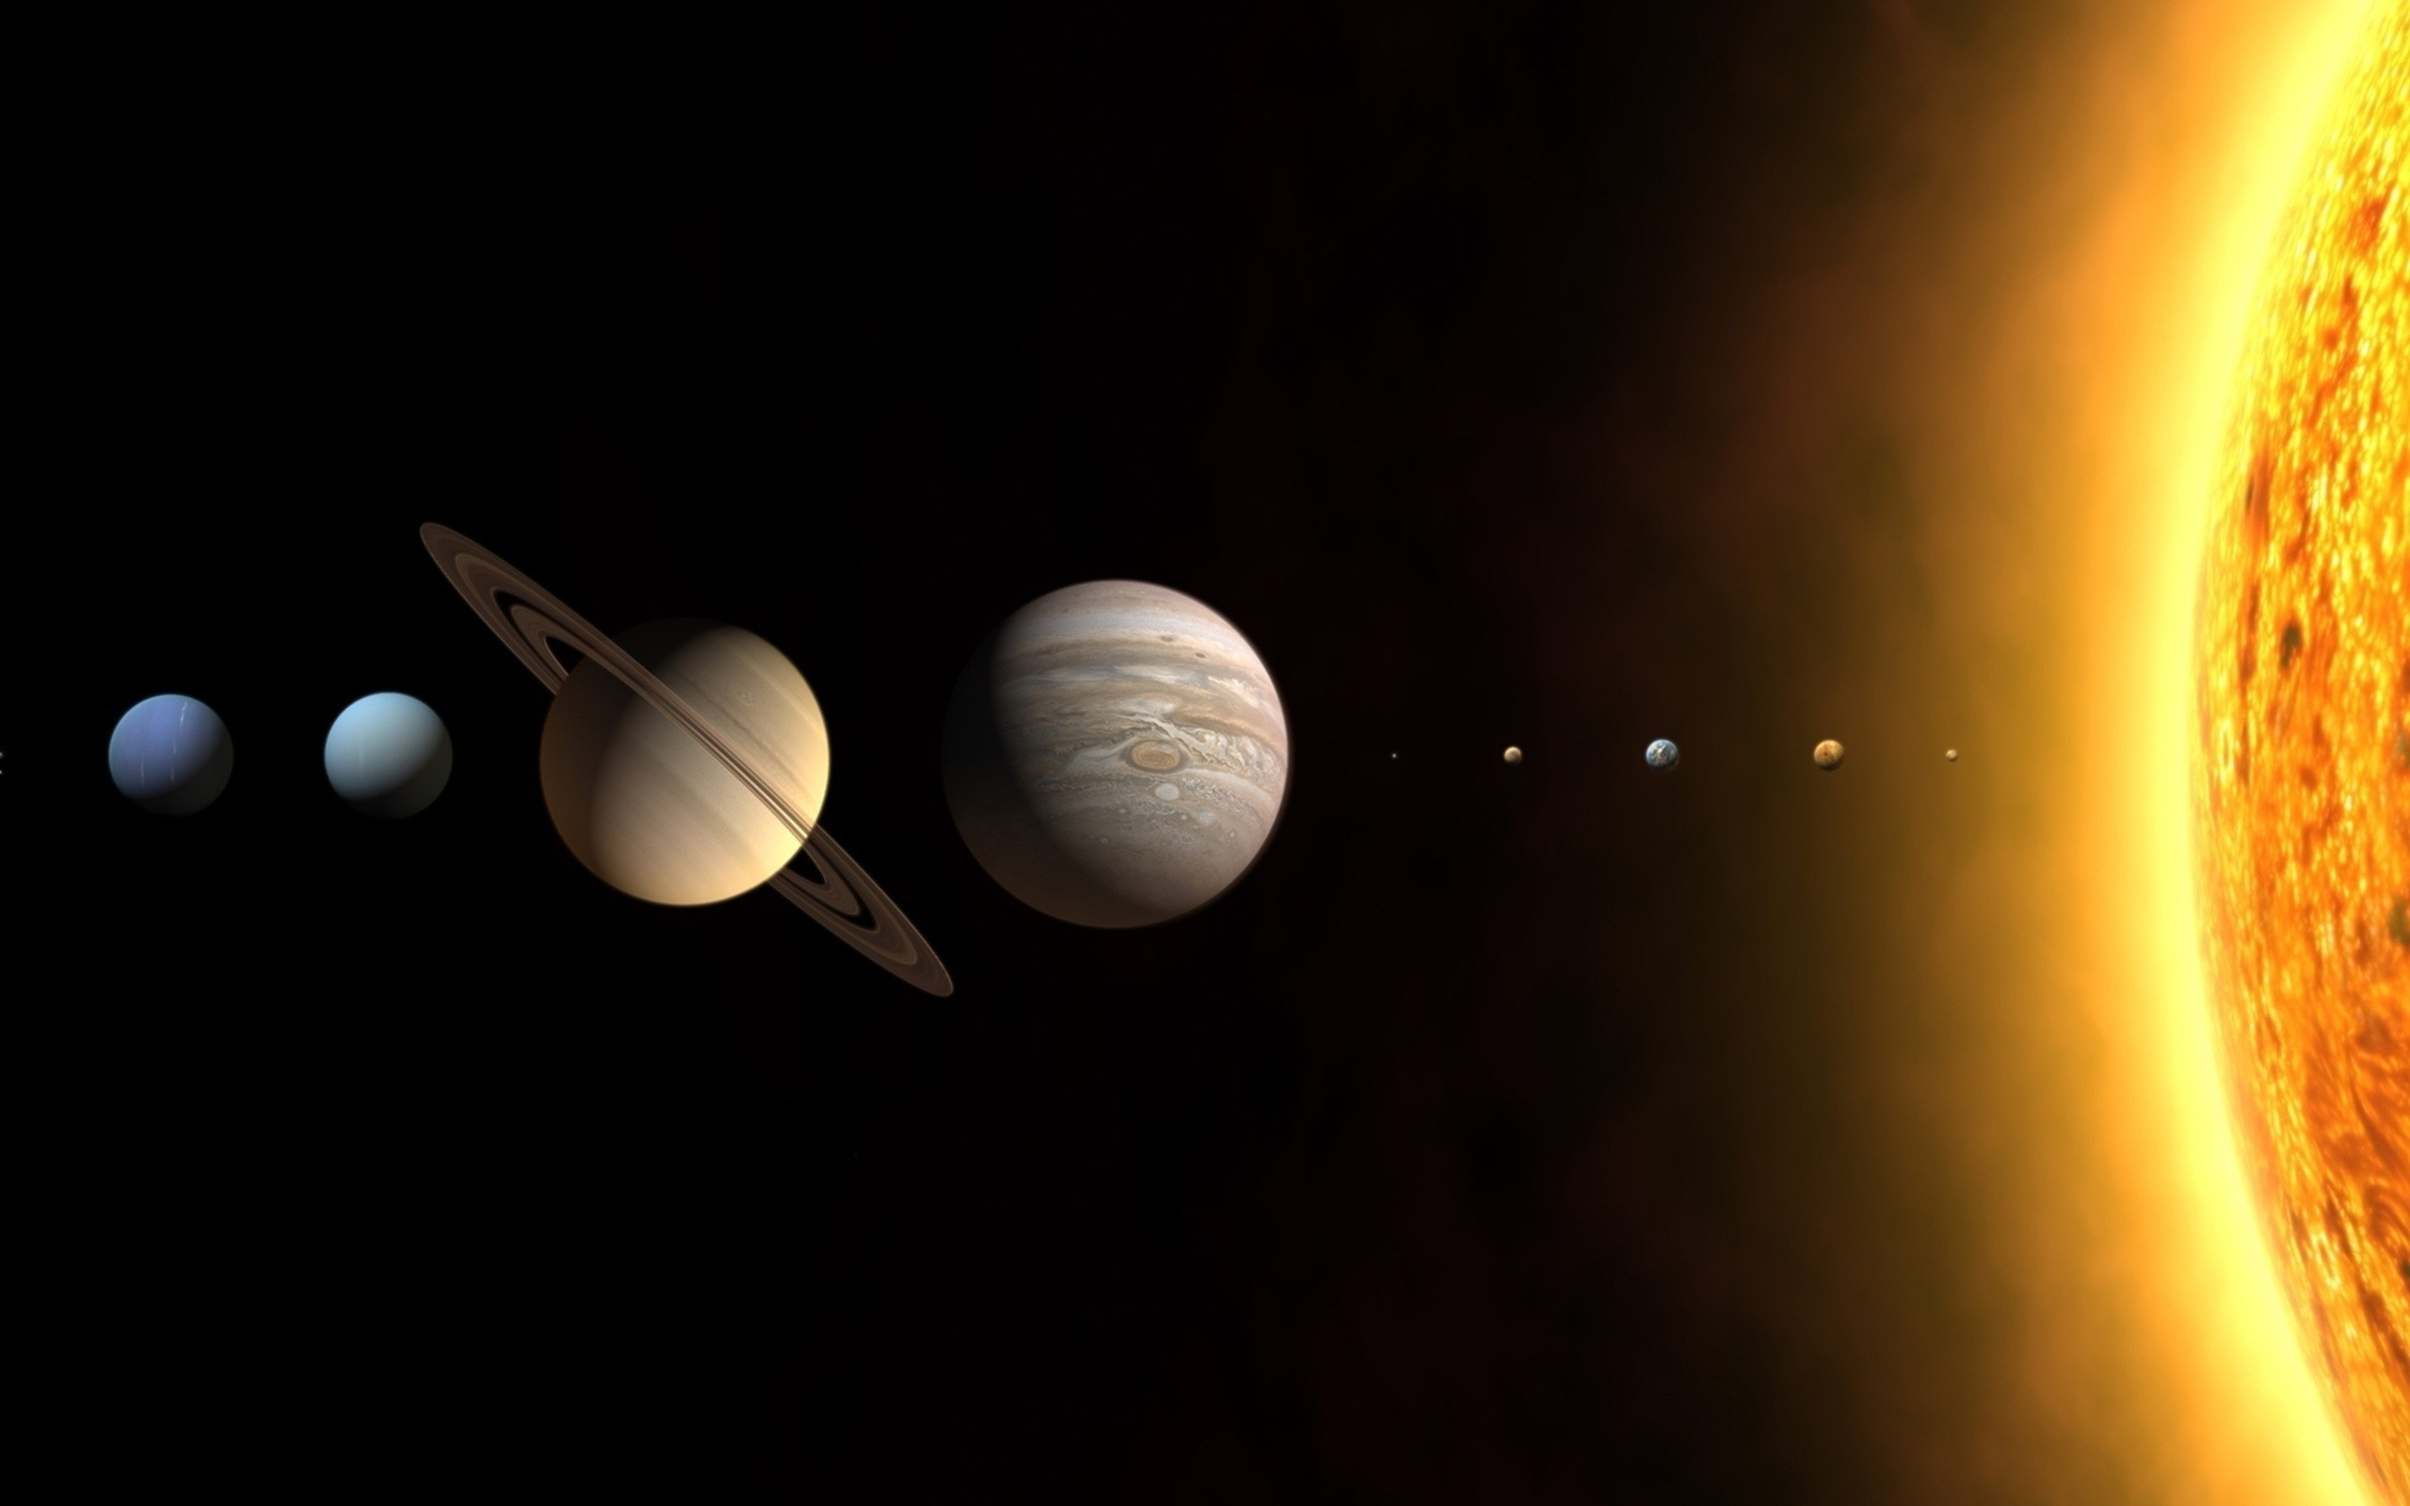
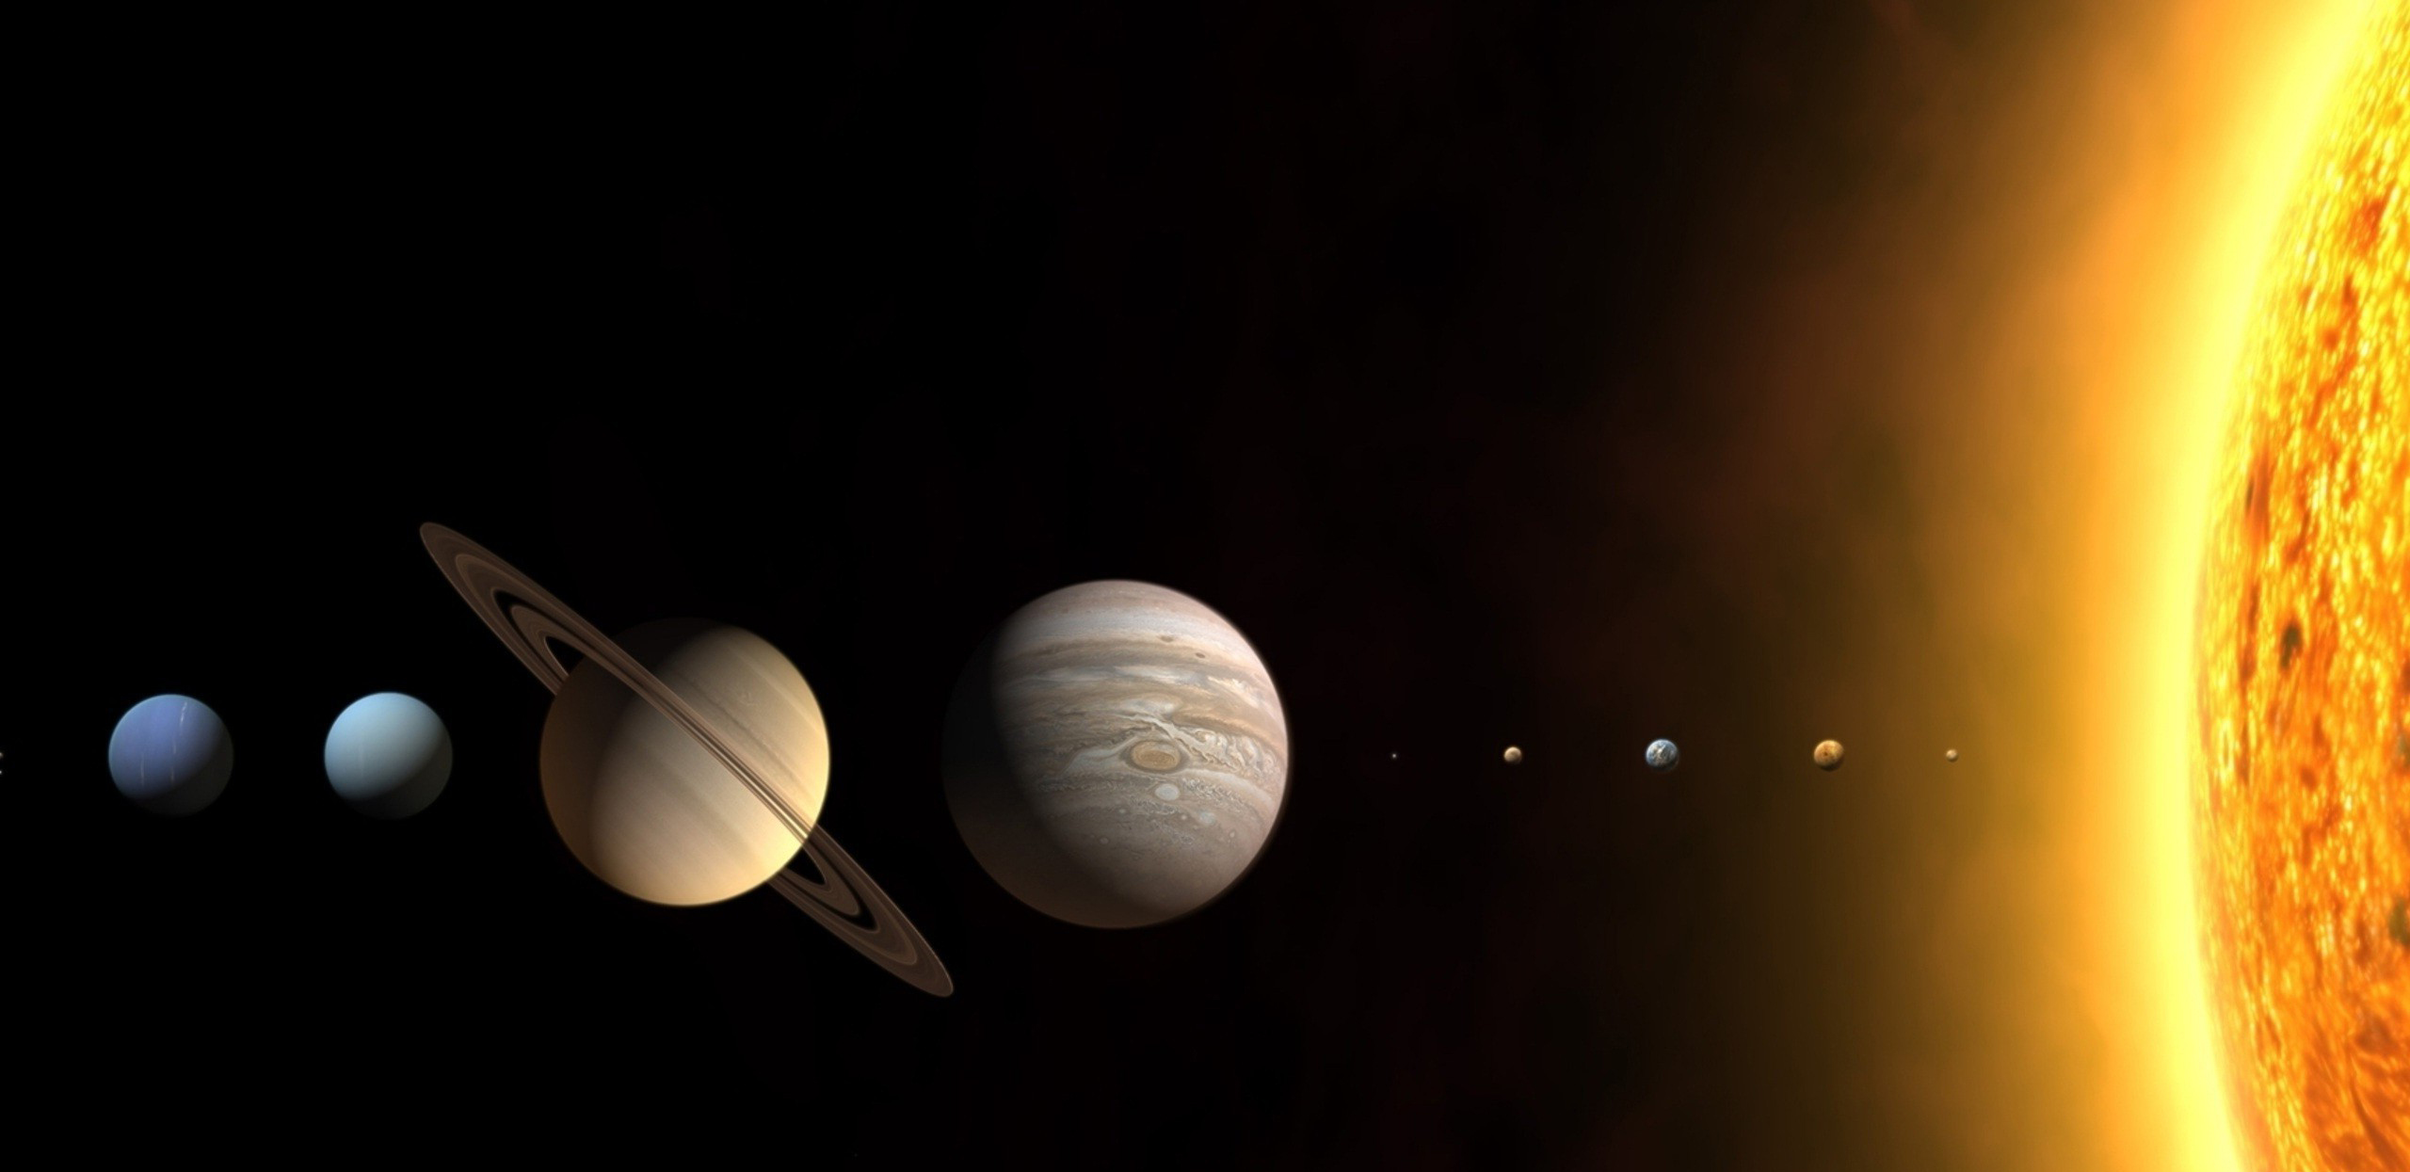
finalized wireframe

diff --git a/Wireframe/index.html b/Wireframe/index.html
@@ -14,6 +14,8 @@
             <p>Journey through the Solar System with this short quiz and learn some cool facts along the way.</p>
         </header>
 
+        <h1>Pre-quiz state</h1>
+
         <form class="quiz-form">
             <section class="quiz-progress">
                 <span class="question-number">Question: Not Started</span>
@@ -40,6 +42,96 @@
                 <input type="button" name="next-question-button" id="next-question-button" class="quiz-buttons" value="Start Quiz">
             </span>
         </form>
+
+        <h1>When asking a question</h1>
+
+        <form class="quiz-form">
+                <section class="quiz-progress">
+                    <span class="question-number">Question: 1/16</span>
+                    <span class="question-grading">Correct: 0 Incorrect: 0</span>
+                </section>
+    
+                <section class="quiz-questions-answers">Who or what was the first thing to orbit the Earth?
+                    </section>
+                <span class="multiple-choice" role="question choices">
+                    <label for="user-answer-a" class="radio-labels">
+                        <input type="radio" name="user-answers" id="user-answer-a" class="user-answer-a">
+                    A monkey</label>
+                    <label for="user-answer-b" class="radio-labels">
+                        <input type="radio" name="user-answers" id="user-answer-b" class="user-answer-b">
+                    A dog</label>
+                    <label for="user-answer-c" class="radio-labels">
+                        <input type="radio" name="user-answers" id="user-answer-c" class="user-answer-c">
+                    Buzz Aldrin</label>
+                    <label for="user-answer-d" class="radio-labels">
+                        <input type="radio" name="user-answers" id="user-answer-d" class="user-answer-d">
+                    John Glenn</label>
+                </span>
+                <span role="quiz control buttons" class="quiz-control-buttons">
+                    <input type="button" name="stop-start-restart-button" id="stop-start-restart-button" class="quiz-buttons" value="Stop/Restart">
+                    <input type="button" name="next-question-button" id="next-question-button" class="quiz-buttons" value="Start Quiz">
+                </span>
+            </form>
+
+        <h1>When the user answers correctly</h1>
+
+        <form class="quiz-form">
+                <section class="quiz-progress">
+                    <span class="question-number">Question: 1/16</span>
+                    <span class="question-grading">Correct: 1 Incorrect: 0</span>
+                </section>
+    
+                <section class="quiz-questions-answers correct-box">The first creature from Earth to orbit the planet was Laika the dog, sent on the Soviet Sputnik 2 in 1957.
+                    </section>
+                <span class="multiple-choice" role="question choices">
+                    <label for="user-answer-a" class="radio-labels">
+                        <input type="radio" name="user-answers" id="user-answer-a" class="user-answer-a">
+                    A monkey</label>
+                    <label for="user-answer-b" class="radio-labels correct">
+                        <input checked type="radio" name="user-answers" id="user-answer-b" class="user-answer-b">
+                    A dog <strong>Correct!</strong></label>
+                    <label for="user-answer-c" class="radio-labels">
+                        <input type="radio" name="user-answers" id="user-answer-c" class="user-answer-c">
+                    Buzz Aldrin</label>
+                    <label for="user-answer-d" class="radio-labels">
+                        <input type="radio" name="user-answers" id="user-answer-d" class="user-answer-d">
+                    John Glenn</label>
+                </span>
+                <span role="quiz control buttons" class="quiz-control-buttons">
+                    <input type="button" name="stop-start-restart-button" id="stop-start-restart-button" class="quiz-buttons" value="Stop/Restart">
+                    <input type="button" name="next-question-button" id="next-question-button" class="quiz-buttons" value="Start Quiz">
+                </span>
+            </form>
+
+            <h1>When the user answers incorrectly</h1>
+
+            <form class="quiz-form">
+                    <section class="quiz-progress">
+                        <span class="question-number">Question: 1/16</span>
+                        <span class="question-grading">Correct: 0 Incorrect: 1</span>
+                    </section>
+        
+                    <section class="quiz-questions-answers incorrect-box">The first creature from Earth to orbit the planet was Laika the dog, sent on the Soviet Sputnik 2 in 1957.
+                        </section>
+                    <span class="multiple-choice" role="question choices">
+                        <label for="user-answer-a" class="radio-labels">
+                            <input type="radio" name="user-answers" id="user-answer-a" class="user-answer-a">
+                        A monkey</label>
+                        <label for="user-answer-b" class="radio-labels">
+                            <input type="radio" name="user-answers" id="user-answer-b" class="user-answer-b">
+                        A dog</label>
+                        <label checked for="user-answer-c" class="radio-labels incorrect">
+                            <input type="radio" name="user-answers" id="user-answer-c" class="user-answer-c">
+                        Buzz Aldrin  <strong>Incorrect</strong></label>
+                        <label for="user-answer-d" class="radio-labels">
+                            <input type="radio" name="user-answers" id="user-answer-d" class="user-answer-d">
+                        John Glenn</label>
+                    </span>
+                    <span role="quiz control buttons" class="quiz-control-buttons">
+                        <input type="button" name="stop-start-restart-button" id="stop-start-restart-button" class="quiz-buttons" value="Stop/Restart">
+                        <input type="button" name="next-question-button" id="next-question-button" class="quiz-buttons" value="Start Quiz">
+                    </span>
+                </form>
 
         
 

diff --git a/Wireframe/main.css b/Wireframe/main.css
@@ -4,6 +4,22 @@
     margin: 0px;
 }
 
+.correct {
+    border: solid 1px green;
+}
+
+.correct-box {
+    border: solid 5px green;
+}
+
+.incorrect {
+    border: solid 1px red;
+}
+
+.incorrect-box {
+    border: solid 5px red;
+}
+
 @media screen and (min-width: 0px) {
     body {
         margin: 0px;
@@ -96,8 +112,11 @@
 @media screen and (min-width: 1900px) {
     body {
         font-size: 1em;
-        background: black url("solarsys.jpg") no-repeat;
-        background-size: cover;
+        background: black url("solarsys.jpg");
+    }
+
+    header {
+        height: 150px;
     }
 
     .quiz-form {
@@ -105,7 +124,7 @@
         max-height: 400px;
         margin-left: auto;
         margin-right: auto;
-        margin-bottom: 250px;
+        margin-bottom: 350px;
     }
 
     .quiz-buttons {
